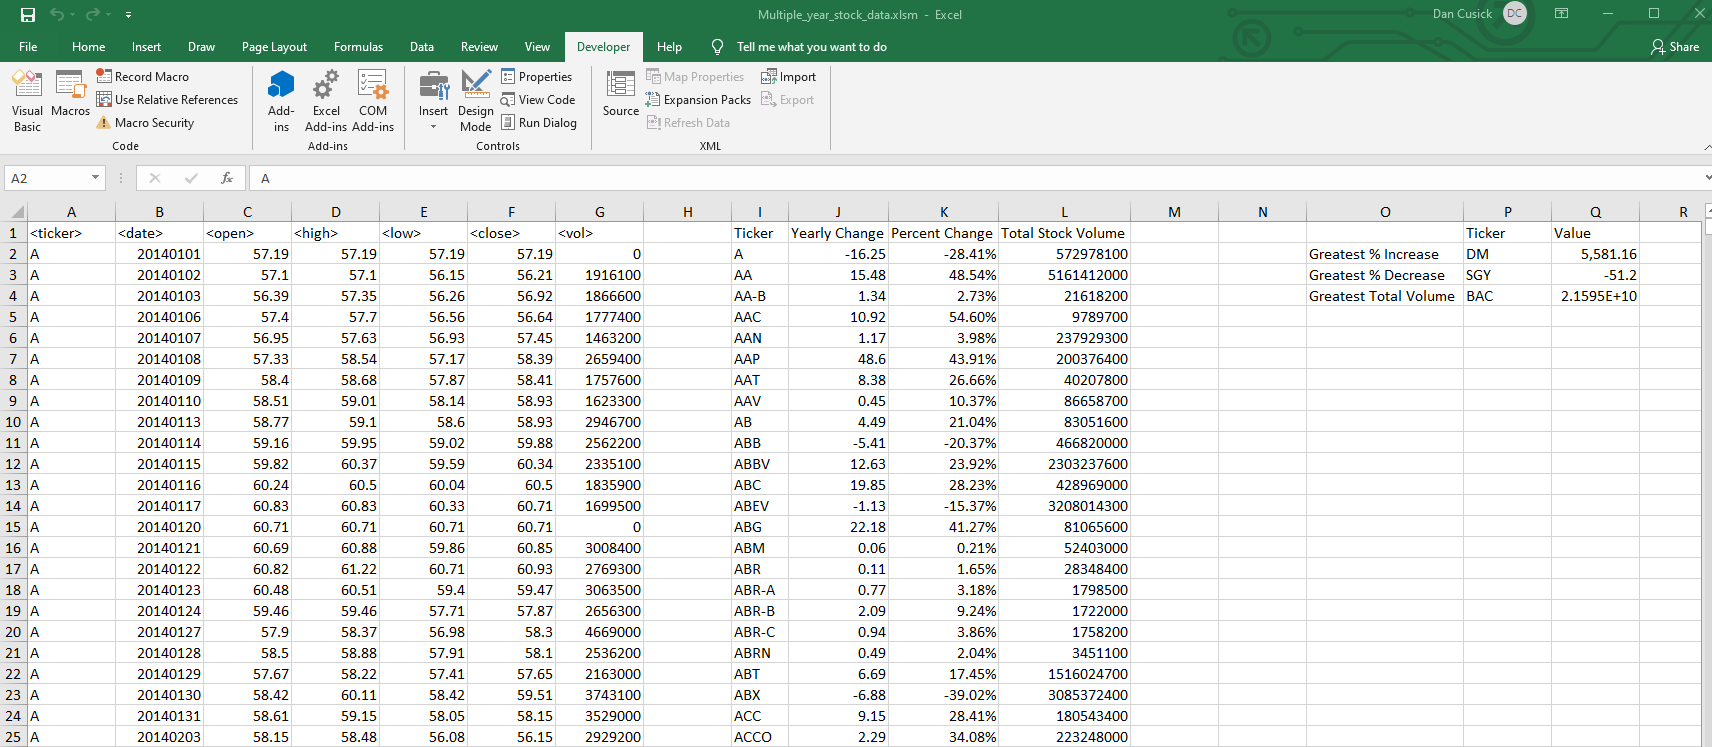
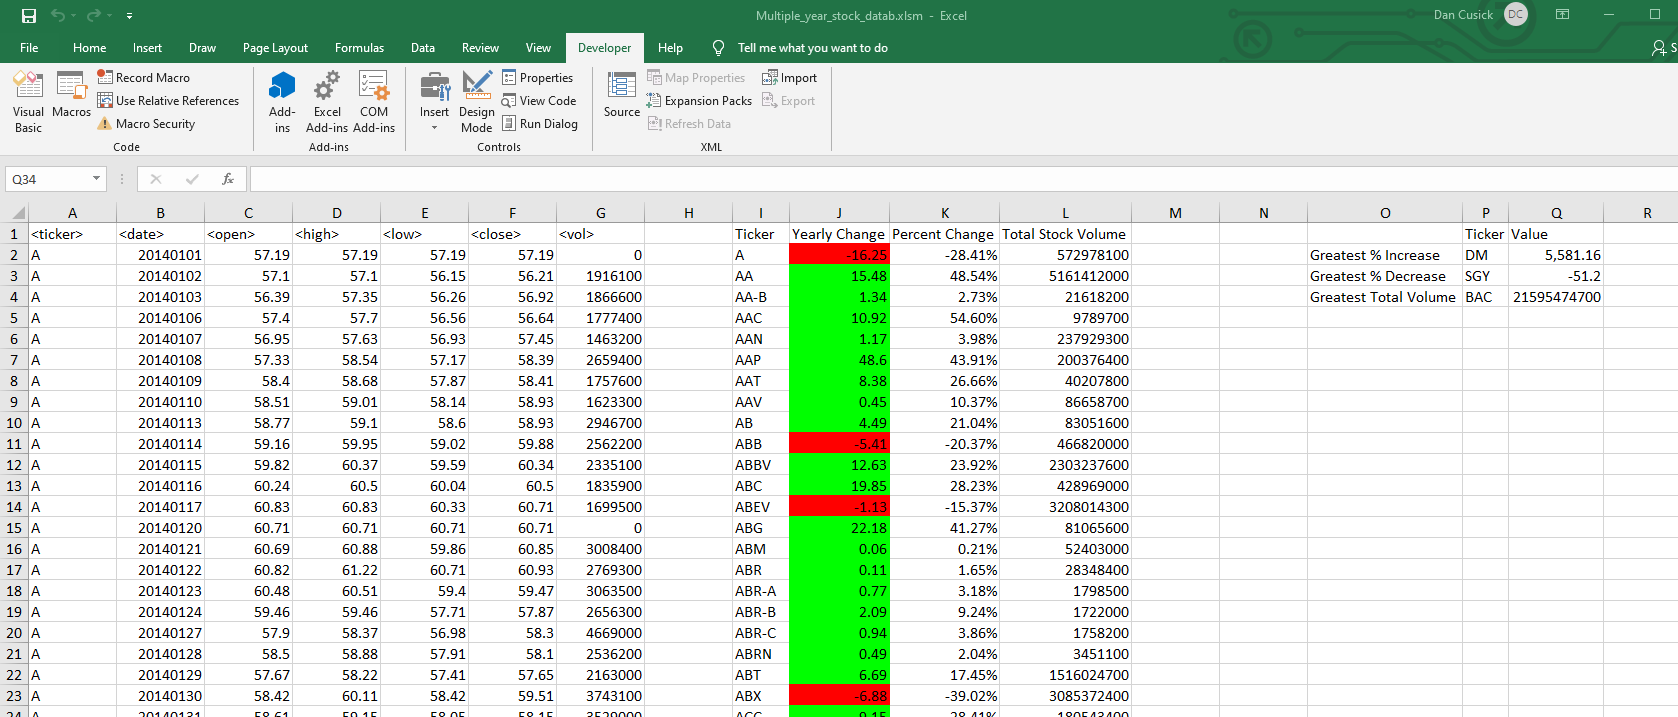
Finished on Multi_year code, fixed cell format bug. Updated images

diff --git a/README.md b/README.md
@@ -1,5 +1,9 @@
 # VBA_challenge
-
+#
+#  Dan Cusick
+#  Data Scienct Bootcamp
+#  3/2/2021
+#
 Multi-year Stock Portfolio Analysis
 
 For each stock - Identifying:
